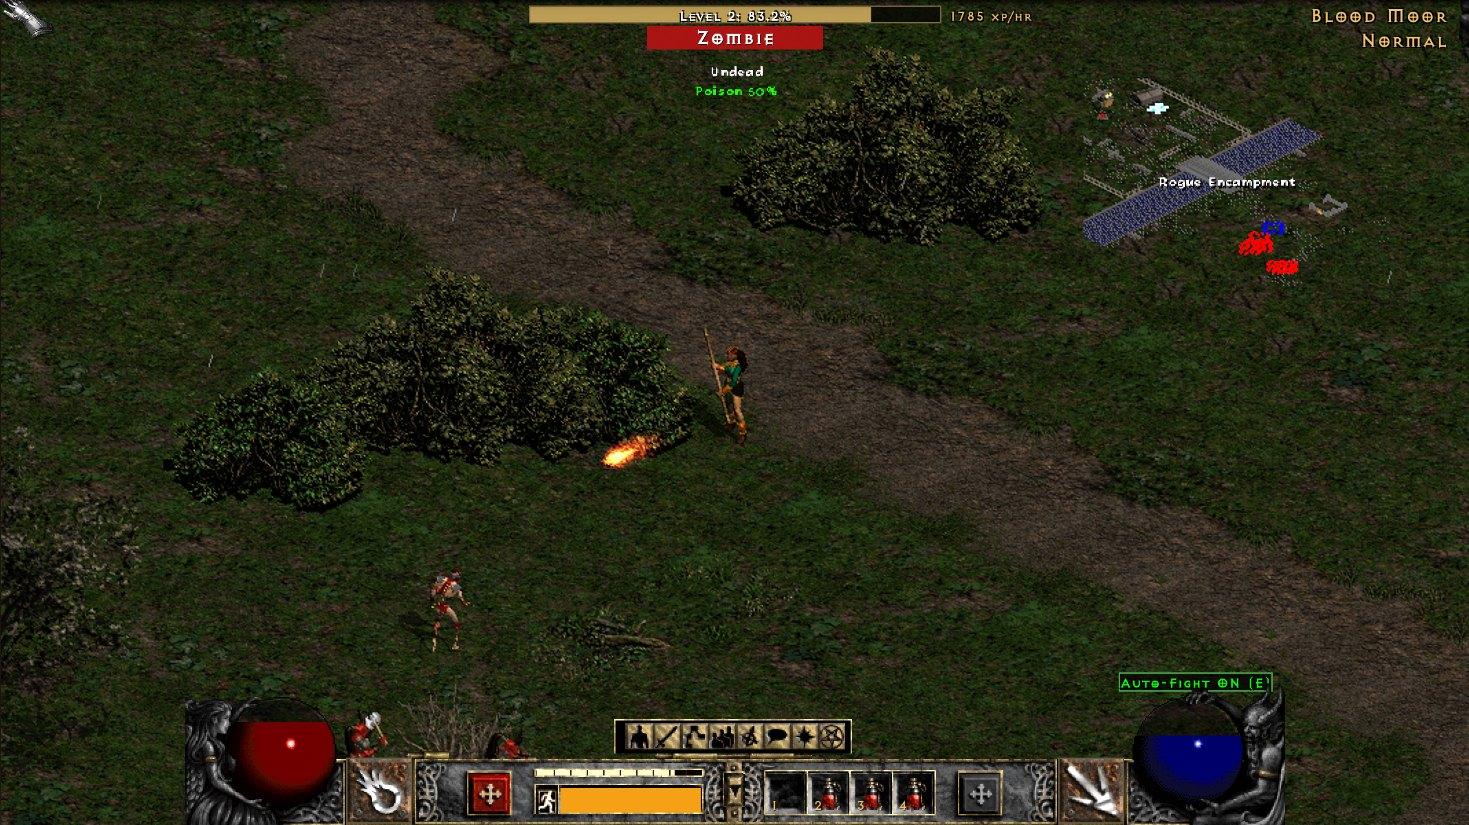
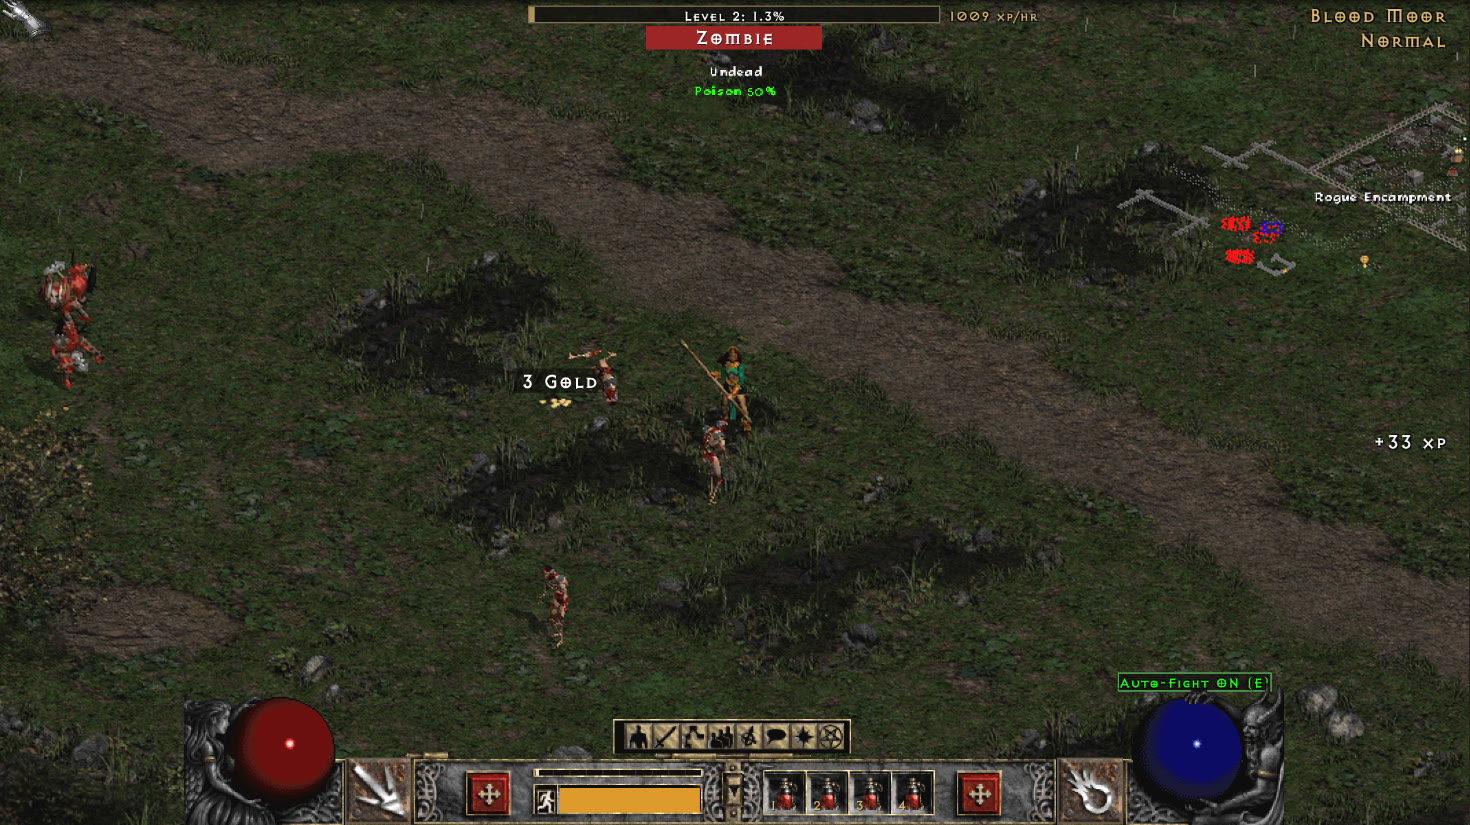
Fresh README screenshots, one per plugin

diff --git a/README.md b/README.md
@@ -4,12 +4,7 @@
 
 Diablo II: Lord of Destruction (1.13c) in your browser. It connects to real PvPGN + D2GS servers, so you play the actual game online, not a remake. On top of the base game it adds a set of optional quality-of-life mods.
 
-![Fighting in the Blood Moor with Auto-Fight on](.github/media/combat.jpg)
-
-<p>
-  <img src=".github/media/fire-bolt.jpg" width="49%" alt="A Fire Bolt landing, with loot labels and an XP gain">
-  <img src=".github/media/resists.jpg" width="49%" alt="A Zombie's health bar showing its poison resistance">
-</p>
+![Auto-Fight clearing Fallen in the Blood Moor, with loot labels and upgrade arrows](.github/media/auto-fight.jpg)
 
 ## Getting started
 
@@ -40,6 +35,24 @@ Files listed in `.upstream-filter` are left alone by the sync: `drop` keeps them
 ## Mods
 
 All mods can be switched off from the Plugins button in the toolbar. See [MODS.md](MODS.md) for the list.
+
+**Path Guide** follows your quest log and draws the way to the next step on the ground and the minimap.
+
+<p>
+  <img src=".github/media/guide-town.jpg" width="49%" alt="Path Guide in the Rogue Encampment pointing to the Blood Moor for the Den of Evil">
+  <img src=".github/media/guide-moor.jpg" width="49%" alt="Path Guide in the Blood Moor heading for the Den of Evil, with the route on the minimap">
+</p>
+
+**Item Info** puts small icons on ground labels: green arrows for upgrades, item level, sockets and ethereal.
+
+![Loot labels with upgrade arrows and item level badges](.github/media/loot-labels.jpg)
+
+**Monster Resists** adds the monster type and its resistances under the health bar. Every plugin has its own page in the Plugins menu.
+
+<p>
+  <img src=".github/media/resists.jpg" width="49%" alt="A Zombie's health bar showing Undead and its poison resistance">
+  <img src=".github/media/plugin-menu.jpg" width="49%" alt="The Plugins menu with the Path Guide settings">
+</p>
 
 ## Credits
 
